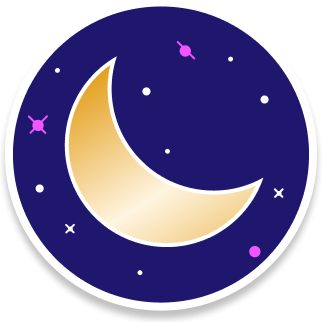
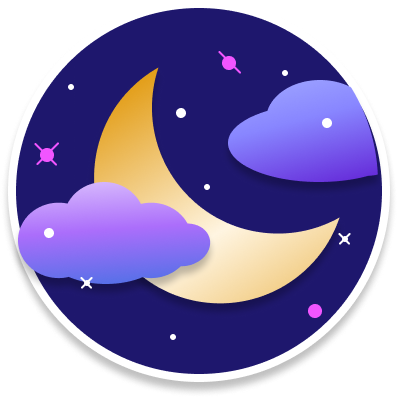
feat(symbols): add material symbols, new image, make bg white

diff --git a/my-nextui-app/app/page.tsx b/my-nextui-app/app/page.tsx
@@ -11,27 +11,41 @@ import { Card, CardBody, CardHeader } from "@nextui-org/card";
 
 import { Image } from "@nextui-org/image";
 import { Divider } from "@nextui-org/divider";
-const chipContents = ['emojis', 'sustainability', 'art', 'figma', 'يمن']
+import { useTheme } from "next-themes";
+
+
+
+
+const chipContents = ['emojis ✨', 'sustainability 🌱', 'art', 'figma', 'يمن']
 const cardContents = [
-  {title: 'Work', content: 'Software Engineer / UX Engineer', icon: 'keyboard'},
-  {title: 'Studies', content: 'Masters in Media Computer Science', icon: 'school'},
-  {title: 'Private Stuff', contentChips: ['Drawing', 'Choir', 'Languages'], icon: 'stock_media'}]
+  {title: 'work', content: 'Software Engineer / UX Engineer', icon: 'keyboard'},
+  {title: 'studies', content: 'Masters in Media Computer Science', icon: 'school'},
+  {title: 'private stuff', contentChips: ['Drawing', 'Choir', 'Languages'], icon: 'stock_media'}]
 
-  // function IconDisplay({ iconName }){
-  //   const icons = {
-  //   BeakerIcon,
-  // HomeIcon,
-  //  UserIcon,
-  // };}
 
+  // export const ThemeSwitcher = () => {
+  //   const { theme, setTheme } = useTheme()
+  
+  //   return (
+  //     <div>
+  //       The current theme is: {theme}
+  //       <button onClick={() => setTheme('light')}>Light Mode</button>
+  //       <button onClick={() => setTheme('dark')}>Dark Mode</button>
+  //     </div>
+  //   )
+  // };
+
+  
 export default function Home() {
+  // const { theme, setTheme } = useTheme(); 
+
   return (
     <div className="flex flex-col h-full gap-6">
       <main>
         <div className="flex flex-row gap-10">
         <Image
       width={150}
-      alt="NextUI hero Image"
+      alt="Moon Picture"
       src="/image.png"
     />
         <div className="flex flex-col w-full gap-10">
@@ -48,10 +62,13 @@ export default function Home() {
 
 <div className="gap-3 grid grid-cols-3 lg:grid-cols-3 w-full">
 {cardContents.map((item, index) => (
-  <Card shadow="sm" key={index} className="p-4" isPressable>
-    <CardHeader className="justify-center"><h2>{item.title}</h2></CardHeader>
+  <Card shadow="sm" key={index} className="p-4 skillCard flex justify-center" isPressable>
+    <CardHeader className="flex flex-col justify-center gap-4">
+      <span className="material-symbols-outlined item-icon">{item.icon}</span>
+      <h2 className="text-2xl font-['Gupter'] tracking-widest text-indigo-400">{item.title}</h2>
+      </CardHeader>
     <CardBody className="overflow-visible">
-      <div className="flex gap-4">
+      <div className="flex gap-4 justify-center">
     {item.content}
     {item.contentChips?.map((chip) => (
       <Chip variant="shadow" 

diff --git a/my-nextui-app/app/layout.tsx b/my-nextui-app/app/layout.tsx
@@ -16,7 +16,7 @@ export const metadata: Metadata = {
   },
   description: siteConfig.description,
   icons: {
-    icon: "/favicon.ico",
+    icon: "/image.png",
   },
 };
 
@@ -34,18 +34,24 @@ export default function RootLayout({
 }) {
   return (
     <html suppressHydrationWarning lang="en">
-      <head />
+      <head>
+<link href="https://fonts.googleapis.com/css2?family=Material+Symbols+Outlined" rel="stylesheet" />
+</head>
       <body
         className={clsx(
           "min-h-screen font-sans antialiased",
           fontSans.variable,
         )}
       >
-        <Providers themeProps={{ attribute: "class", defaultTheme: "dark" }}>
+        <Providers themeProps={{ attribute: "class", defaultTheme: "light" }}>
           <div className="relative flex flex-col h-screen">
-            <main className="container mx-auto pt-16 px-6 flex-grow">
+            <main className="light container mx-auto pt-16 px-6 flex-grow">
               {children}
             </main>
+            <div>
+            <iframe width="560" height="315" src="https://www.youtube.com/embed/videoseries?si=HAGT_RgyE-71zT5o&amp;list=PLd4YajkcrhkFV30j6bcCQxptsOj0s_FEO" title="YouTube video player" frameborder="0" allow="accelerometer; autoplay; clipboard-write; encrypted-media; gyroscope; picture-in-picture; web-share" referrerpolicy="strict-origin-when-cross-origin" allowfullscreen></iframe>
+              Potato
+              </div>
           </div>
         </Providers>
       </body>

diff --git a/my-nextui-app/styles/globals.css b/my-nextui-app/styles/globals.css
@@ -2,6 +2,23 @@
 @tailwind components;
 @tailwind utilities;
 
+body {
+  font-family: 'Inter'
+}
+
 .pretty-chips {
-    @apply bg-gradient-to-br from-indigo-500 to-pink-500 shadow-pink-500/30;
+    @apply bg-gradient-to-r from-indigo-500 from-10% via-violet-600 via-65% to-indigo-500;
+    color: white;
+    &:hover {
+      @apply shadow-pink-500/30;
+    }
+  }
+
+  .skill-card {
+    height: 260px;
+  }
+
+  .item-icon {
+font-size: 3em !important;
+@apply bg-gradient-to-r from-indigo-500 from-10% via-sky-600 via-65% to-indigo-500 bg-clip-text text-transparent;
   }

diff --git a/my-nextui-app/config/fonts.ts b/my-nextui-app/config/fonts.ts
@@ -1,4 +1,4 @@
-import { Fira_Code as FontMono, Inter as FontSans } from "next/font/google";
+import { Fira_Code as FontMono, Inter as FontSans, Gupter as FontSerif } from "next/font/google";
 
 export const fontSans = FontSans({
   subsets: ["latin"],
@@ -8,4 +8,10 @@ export const fontSans = FontSans({
 export const fontMono = FontMono({
   subsets: ["latin"],
   variable: "--font-mono",
+});
+
+export const fontSerif = FontSerif({
+  subsets: ["latin"],
+  variable: "--font-serif",
+  weight: "400"
 });

diff --git a/my-nextui-app/config/site.ts b/my-nextui-app/config/site.ts
@@ -1,8 +1,8 @@
 export type SiteConfig = typeof siteConfig;
 
 export const siteConfig = {
-  name: "Next.js + NextUI",
-  description: "Make beautiful websites regardless of your design experience.",
+  name: "Sarah Alaghbari",
+  description: "My lil page",
   navItems: [
     {
       label: "Home",

diff --git a/website/app/globals.css b/website/app/globals.css
@@ -9,10 +9,11 @@
 
 @media (prefers-color-scheme: dark) {
   :root {
-    /* --background: #0a0a0a; */
-    /* --foreground: #ededed; */
+    --background: #0a0a0a;
+    --foreground: #ededed;
   }
-}
+} 
+
 
 body {
   color: var(--foreground);

diff --git a/my-nextui-app/tailwind.config.js b/my-nextui-app/tailwind.config.js
@@ -12,6 +12,7 @@ module.exports = {
       fontFamily: {
         sans: ["var(--font-sans)"],
         mono: ["var(--font-mono)"],
+        serif: ["var(--font-serif)"],
       },
     },
   },
